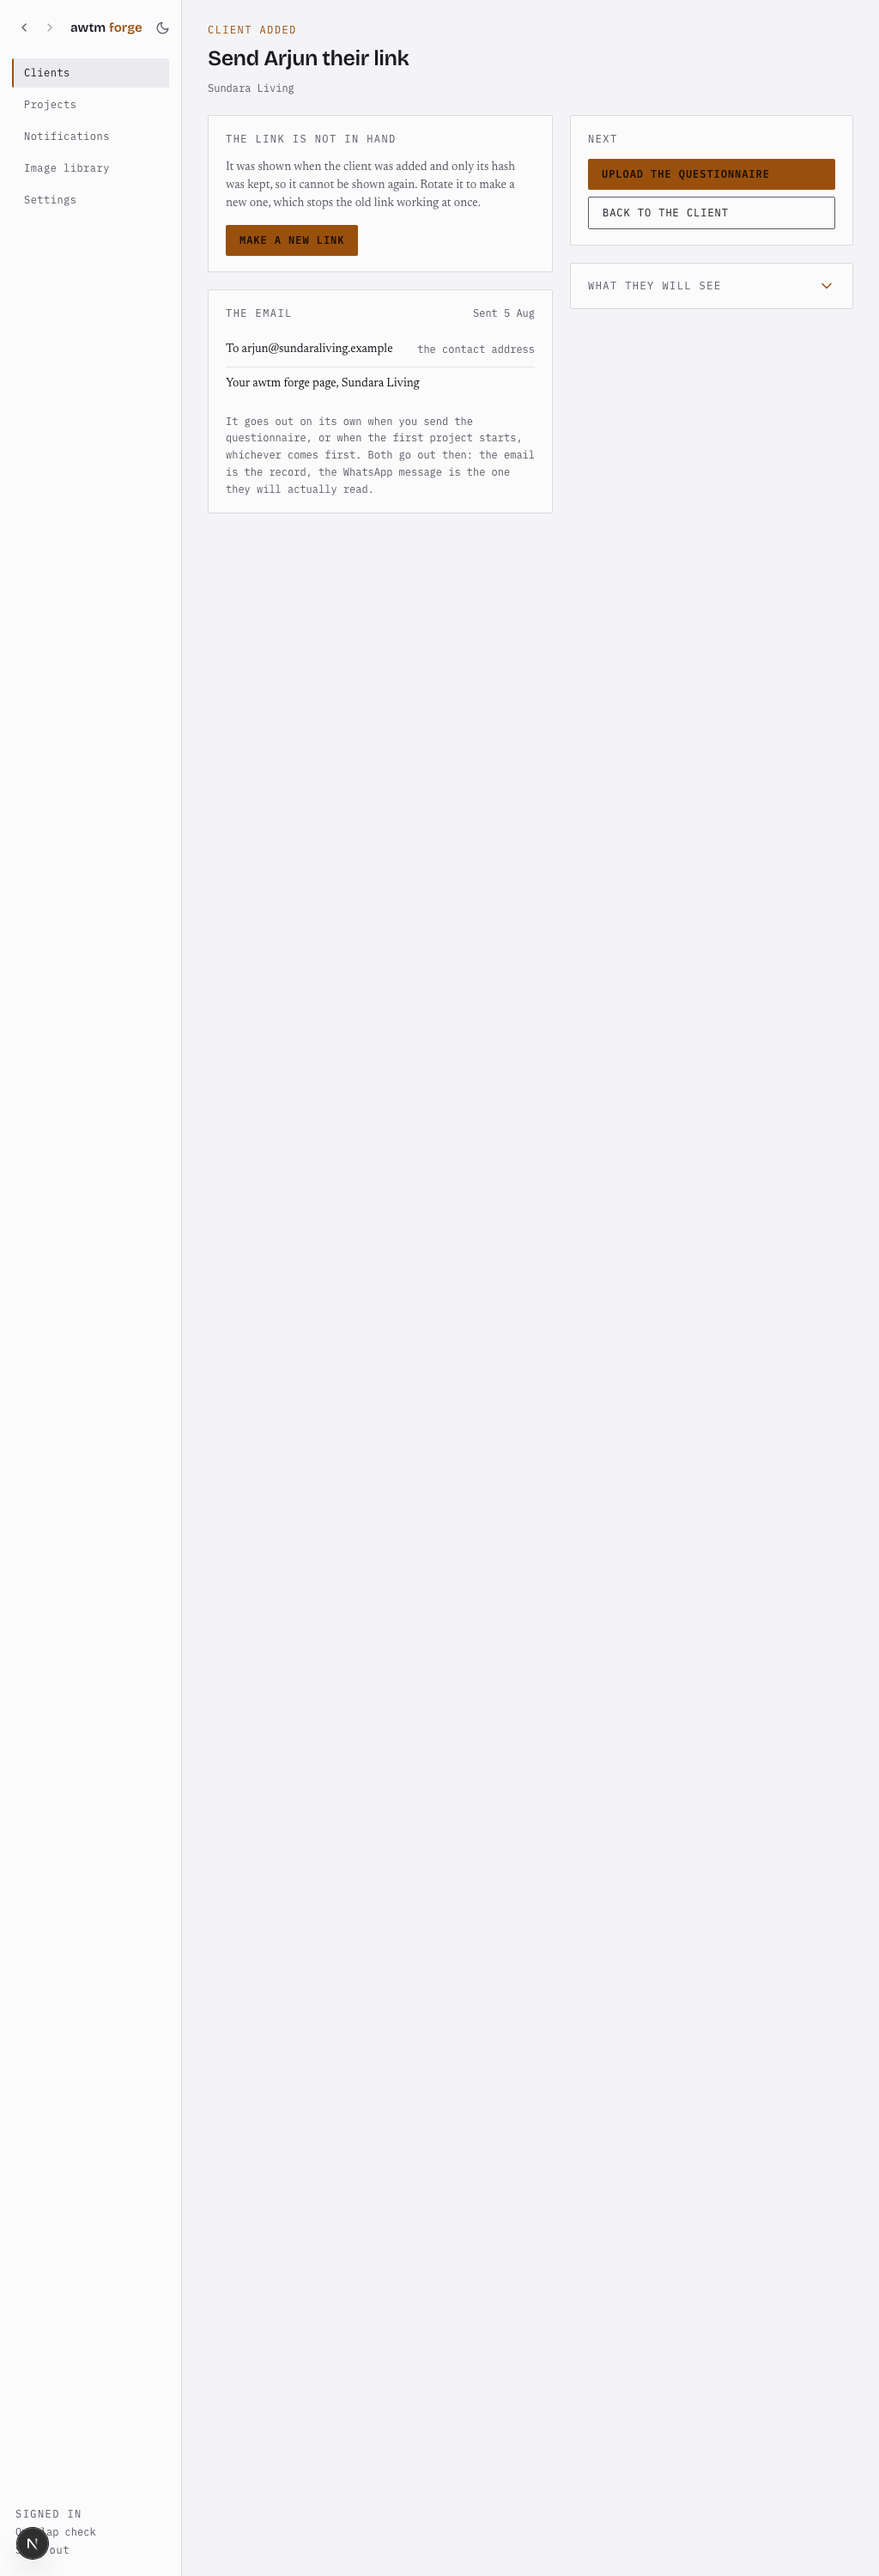
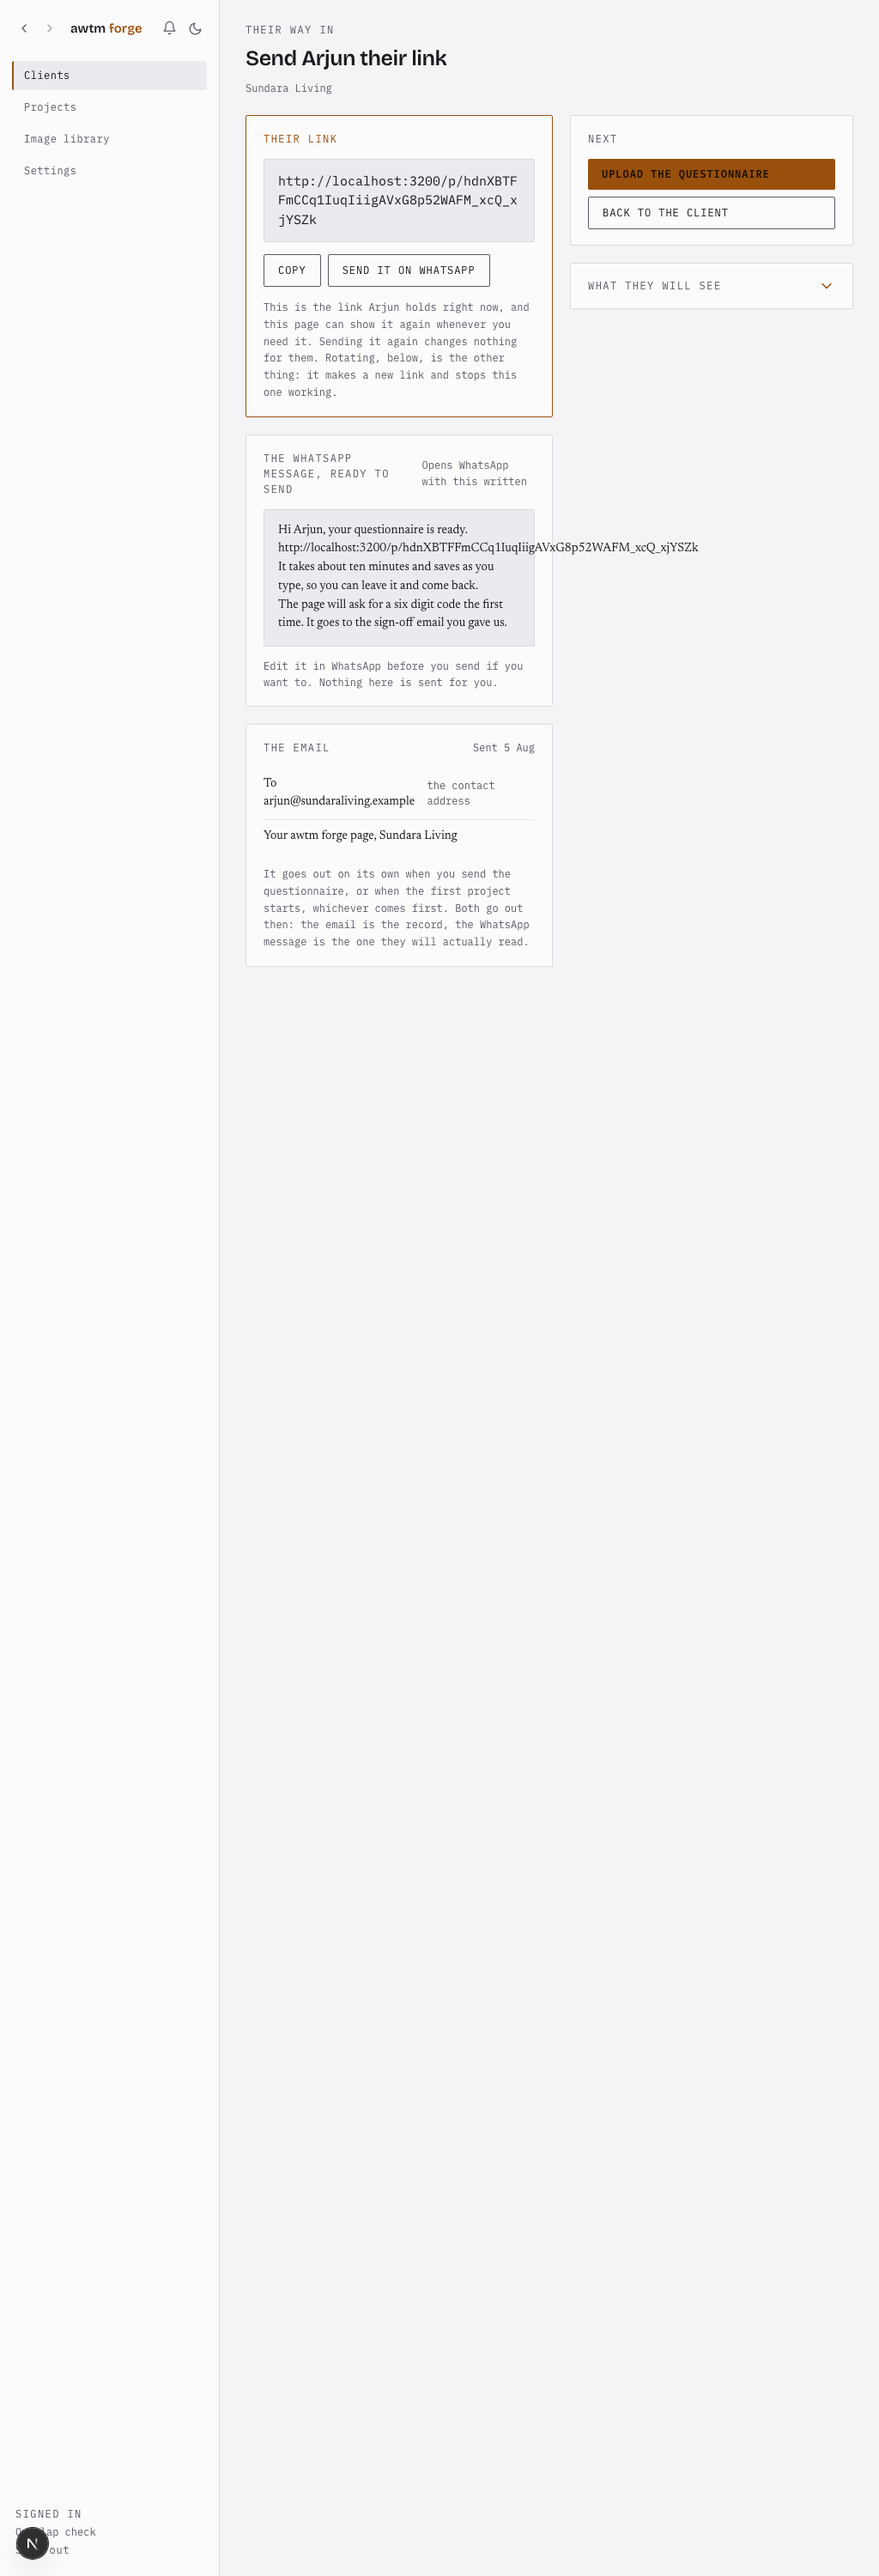
Small things the link page needed once it could be visited twice
Its eyebrow said "Client added" whether or not one had just been added, which
was true when the page was only ever reached once. And the ready-made WhatsApp
message carries the link, which is one long unbroken word: with nothing allowed
to break inside it the page scrolled 184 px sideways on a phone. That was
always true and almost never seen, because the message only appeared right
after a client was added.

The invite button is outlined rather than filled, so Save settings stays the
one loud action on that page. The mistake it was fixing was a grey text link,
not an outline.

diff --git a/src/app/admin/(app)/clients/[id]/link/page.tsx b/src/app/admin/(app)/clients/[id]/link/page.tsx
@@ -30,7 +30,8 @@ export default async function SendLinkPage({ params }: { params: Promise<{ id: s
 
   // Freshly minted and riding the flash cookie, or read back from the sealed
   // copy. Either way it is the link the client holds right now.
-  const token = (await takeFlashLink(client.id)) ?? (await revealClientToken(client.id));
+  const justMade = await takeFlashLink(client.id);
+  const token = justMade ?? (await revealClientToken(client.id));
   const link = token ? await clientUrl(`/p/${token}`) : null;
   const c = client;
   const firstName = c.contactName.trim().split(/\s+/)[0] || c.contactName;
@@ -39,7 +40,7 @@ export default async function SendLinkPage({ params }: { params: Promise<{ id: s
   return (
     <AdminShell active="clients" adminName={admin.name}>
       <div className="stack" style={{ gap: 6 }}>
-        <span className="k ember">Client added</span>
+        <span className={`k${justMade ? " ember" : ""}`}>{justMade ? "Client added" : "Their way in"}</span>
         <h1 className="a-title">Send {firstName} their link</h1>
         <p className="a-sub">{client.businessName}</p>
       </div>
@@ -82,7 +83,9 @@ export default async function SendLinkPage({ params }: { params: Promise<{ id: s
           {link && (
             <div className="a-card">
               <div className="between"><span className="k">The WhatsApp message, ready to send</span><span className="help">Opens WhatsApp with this written</span></div>
-              <div style={{ border: "1px solid var(--rule)", background: "var(--surface-2)", borderRadius: 2, padding: "14px 16px", fontSize: 14, lineHeight: 1.55, whiteSpace: "pre-wrap", color: "var(--ink)" }}>{message}</div>
+              <div /* The link is one long unbroken word, so this has to be allowed to break
+                   inside it or the page scrolls sideways on a phone (14 Sep). */
+                style={{ border: "1px solid var(--rule)", background: "var(--surface-2)", borderRadius: 2, padding: "14px 16px", fontSize: 14, lineHeight: 1.55, whiteSpace: "pre-wrap", overflowWrap: "anywhere", color: "var(--ink)" }}>{message}</div>
               <p className="help">Edit it in WhatsApp before you send if you want to. Nothing here is sent for you.</p>
             </div>
           )}

diff --git a/src/app/admin/(app)/settings/InviteAdmin.tsx b/src/app/admin/(app)/settings/InviteAdmin.tsx
@@ -99,7 +99,9 @@ export function InviteAdmin({ admins }: { admins: Existing[] }) {
             </div>
             {state.message && <p className="help err">{state.message}</p>}
             <div>
-              <button className="a-btn" type="submit" disabled={pending}>
+              {/* Outlined, not filled: Save settings is this page's one loud
+                  action. The old mistake was a grey text link, not an outline. */}
+              <button className="a-btn ghost" type="submit" disabled={pending}>
                 {pending ? "Making the link" : full ? "Reissue a setup link" : "Add an admin"}
               </button>
             </div>
